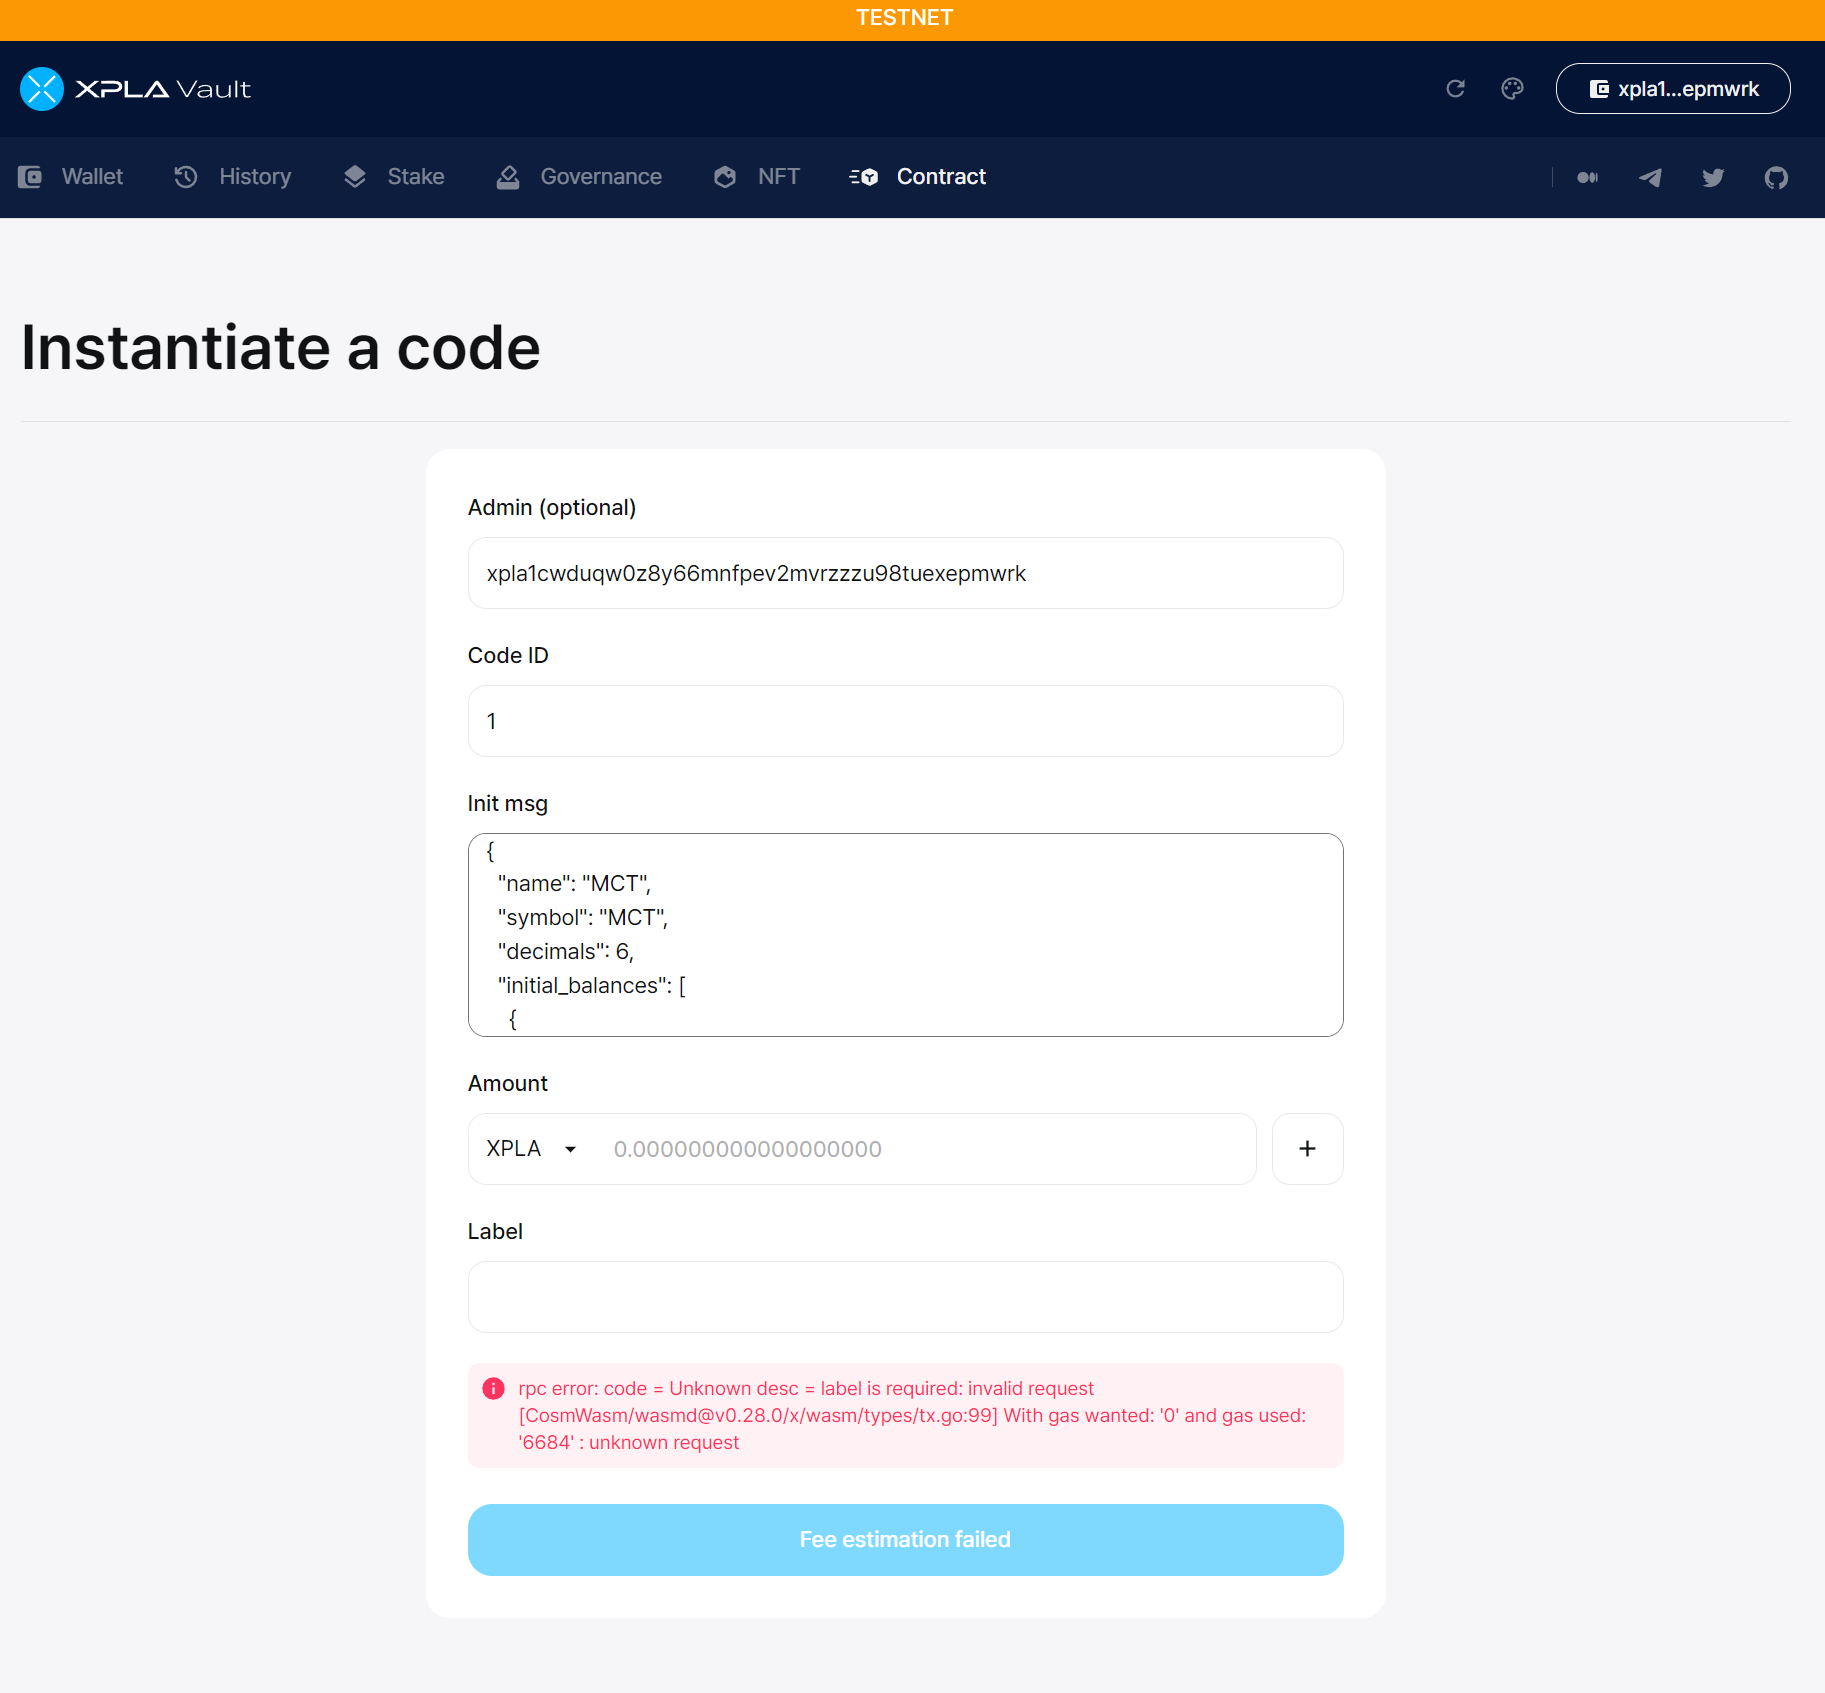
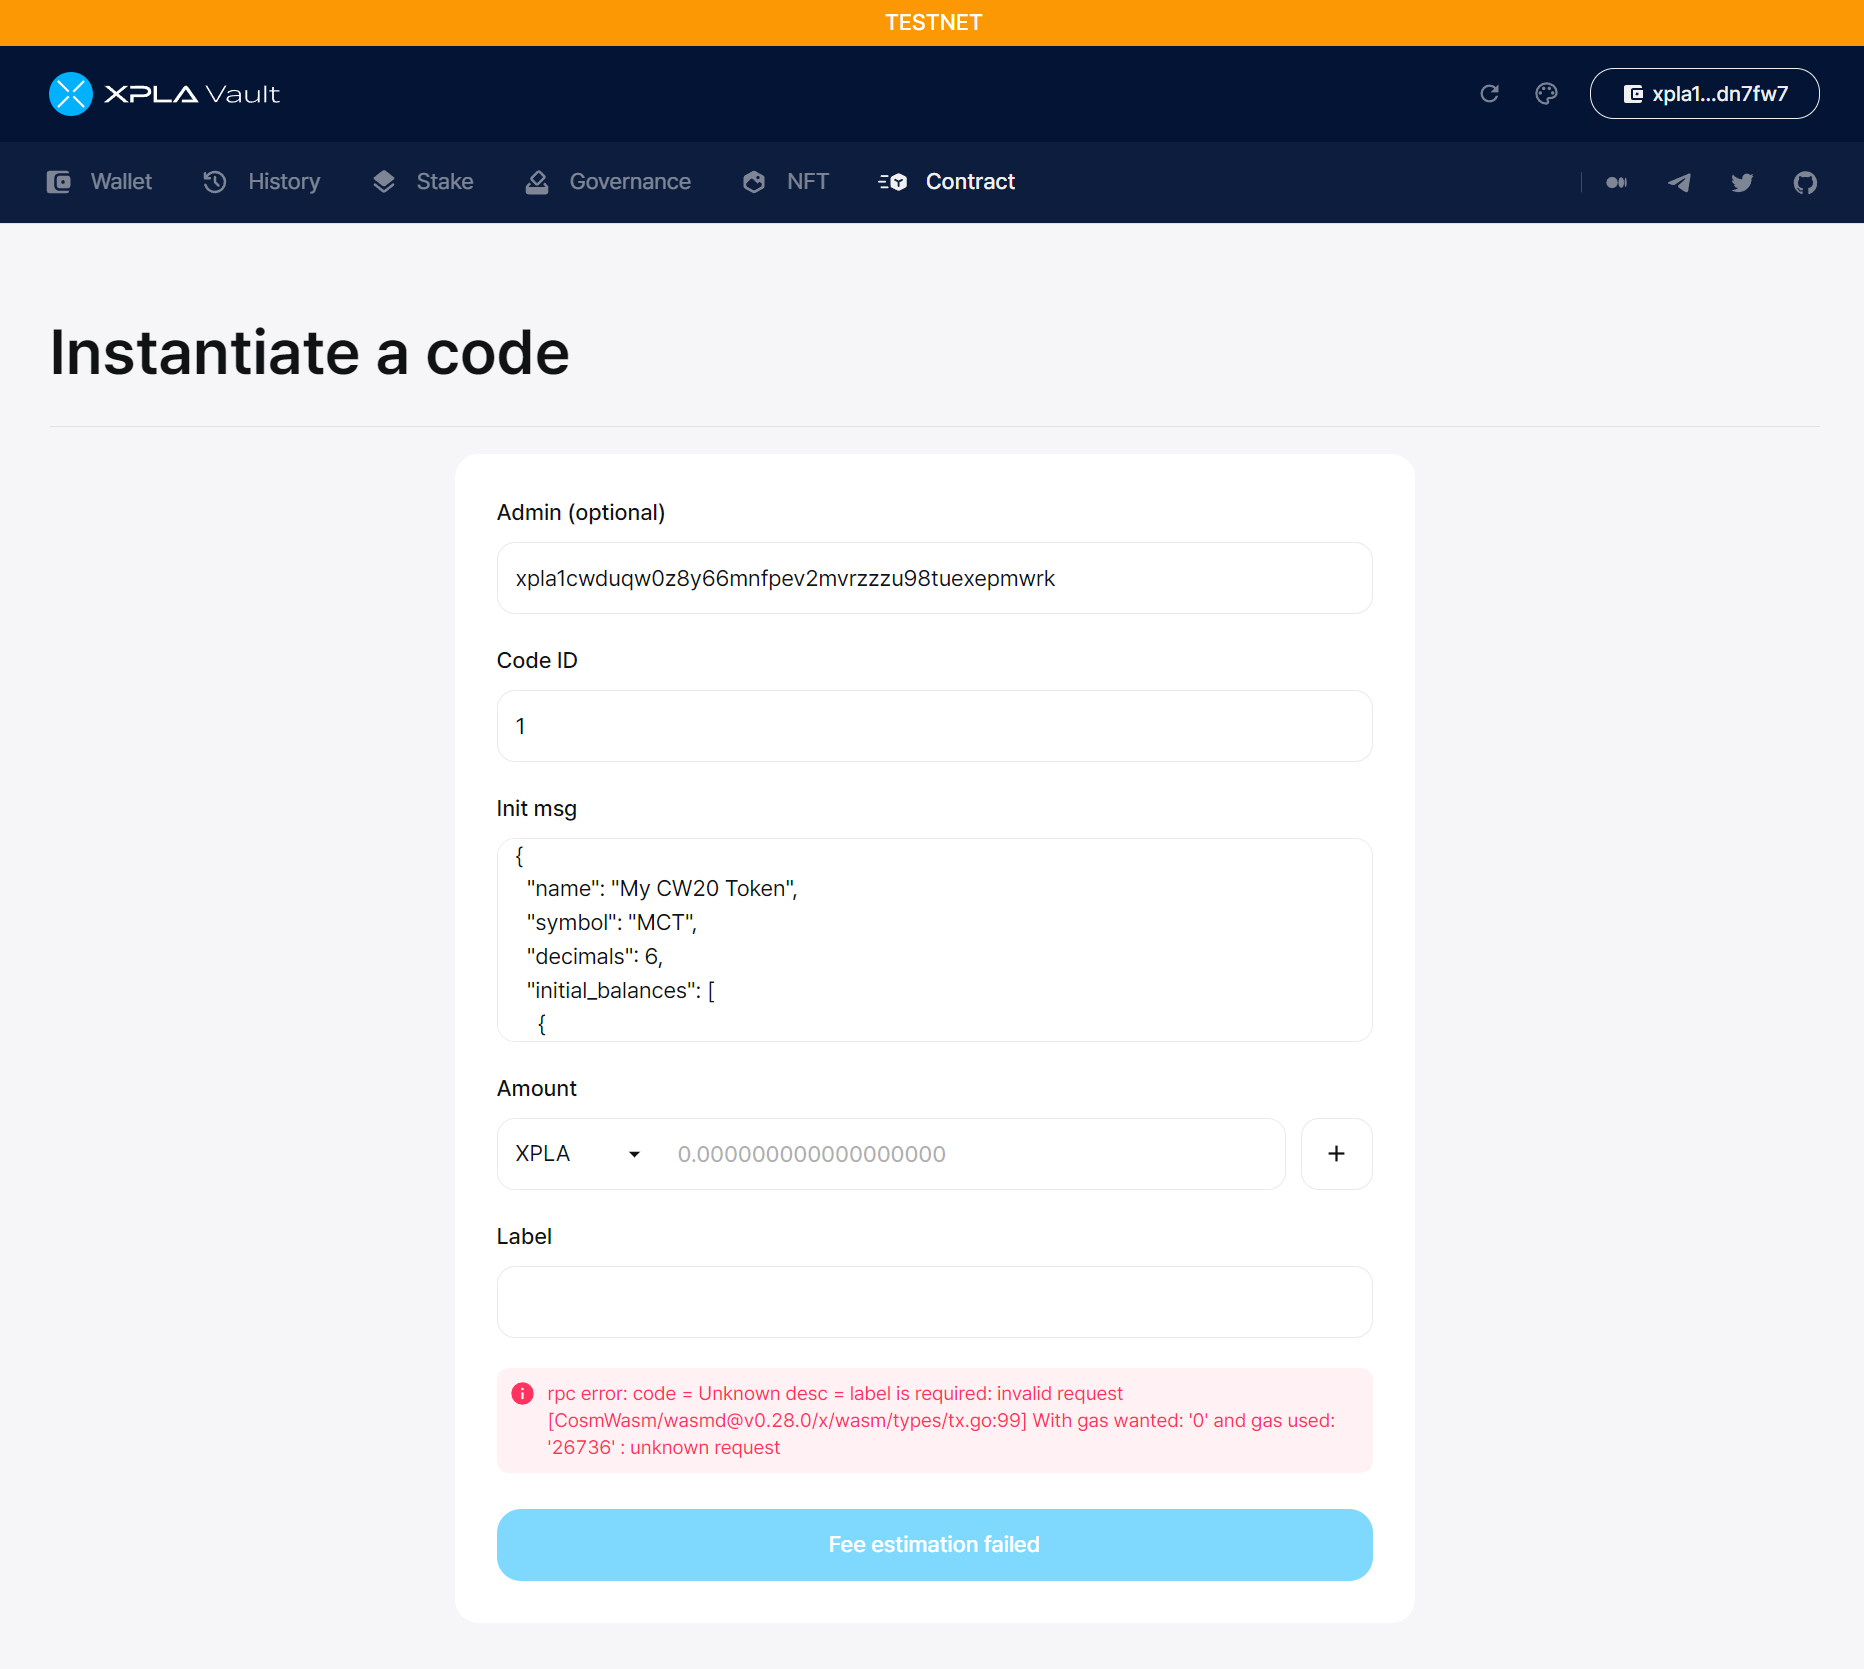
Fix : Fix make-cw20-with-vault

diff --git a/src/components/Sandpack/Ex04-make-cw20.tsx b/src/components/Sandpack/Ex04-make-cw20.tsx
@@ -30,7 +30,7 @@ const main = async () => {
   const myWalletAddress = wallet.key.accAddress;
 
   const init_msg = {
-    name: "MCT", // My Cw20 Token
+    name: "My CW20 Token", // My Cw20 Token
     symbol: "MCT", // My Cw20 Token
     decimals: 6,
     initial_balances: [{ address: myWalletAddress, amount: "2000000000000000" }], // 초기 물량을 보유하고 있을 주소들을 배열로 지정합니다.
